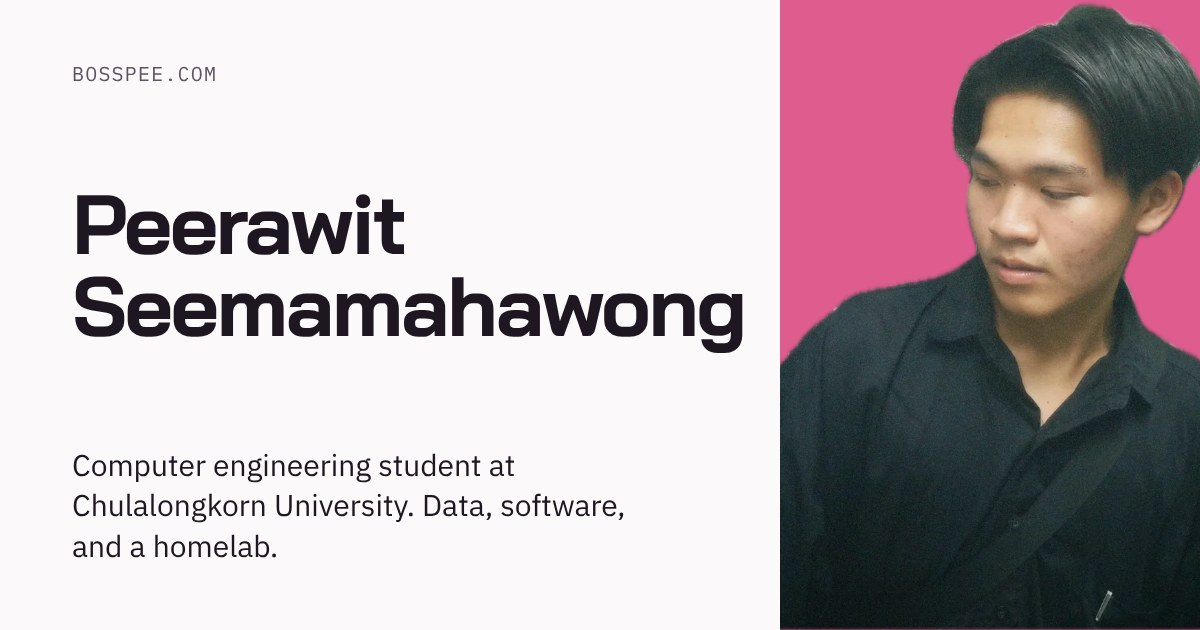
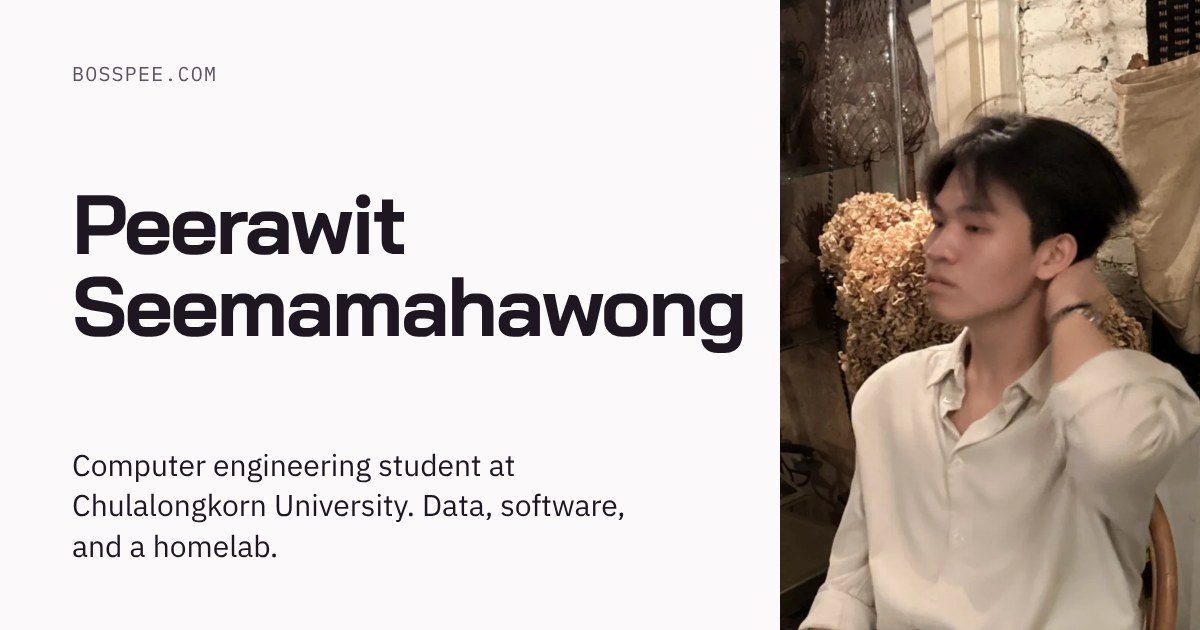
update portrait photo

diff --git a/styles.css b/styles.css
@@ -3,7 +3,7 @@
 
   Layout idea: a spec sheet. Each section names itself in a left rail and puts
   its content on the right, separated by hairlines. One loud thing per screen:
-  the pink portrait panel up top, and the request tracer further down.
+  the portrait up top, and the request tracer further down.
 
   Cascade layers keep specificity flat. Later layers win, so a component never
   has to out-specify the base styles.
@@ -252,8 +252,8 @@
   }
   .hero__portrait {
     margin: 0;
-    aspect-ratio: 5 / 6;
-    background: var(--pink);
+    aspect-ratio: 5 / 6; /* the photo's own ratio, so wide screens show all of it */
+    background: var(--sunk);
     border-radius: 3px;
     overflow: hidden;
   }
@@ -261,7 +261,6 @@
     width: 100%;
     height: 100%;
     object-fit: cover;
-    object-position: 50% 100%;
   }
 
   .facts {
@@ -328,8 +327,9 @@
 
   @media (max-width: 52rem) {
     .hero { grid-template-columns: minmax(0, 1fr); }
+    /* A wide slice on small screens, positioned to keep the face in frame. */
     .hero__portrait { aspect-ratio: 16 / 11; }
-    .hero__portrait img { object-position: 50% 18%; }
+    .hero__portrait img { object-position: 50% 23%; }
     .facts { grid-template-columns: repeat(2, minmax(0, 1fr)); }
     .section {
       grid-template-columns: minmax(0, 1fr);

diff --git a/index.html b/index.html
@@ -92,7 +92,7 @@
       </div>
 
       <figure class="hero__portrait">
-        <img src="assets/img/portrait.webp" width="880" height="917" alt="Peerawit Seemamahawong in a black shirt, looking down to one side." fetchpriority="high">
+        <img src="assets/img/portrait.webp" width="880" height="1056" alt="Peerawit Seemamahawong in a white shirt, seated in a café and looking to one side." fetchpriority="high">
       </figure>
 
       <dl class="facts">

diff --git a/scripts/og.html b/scripts/og.html
@@ -36,7 +36,7 @@
     }
     p { font-size: 30px; line-height: 1.35; max-width: 20em; }
     .portrait { background: #de5c8e; overflow: hidden; }
-    .portrait img { width: 100%; height: 100%; object-fit: cover; object-position: 60% 100%; }
+    .portrait img { width: 100%; height: 100%; object-fit: cover; object-position: 100% 50%; }
   </style>
 </head>
 <body>
